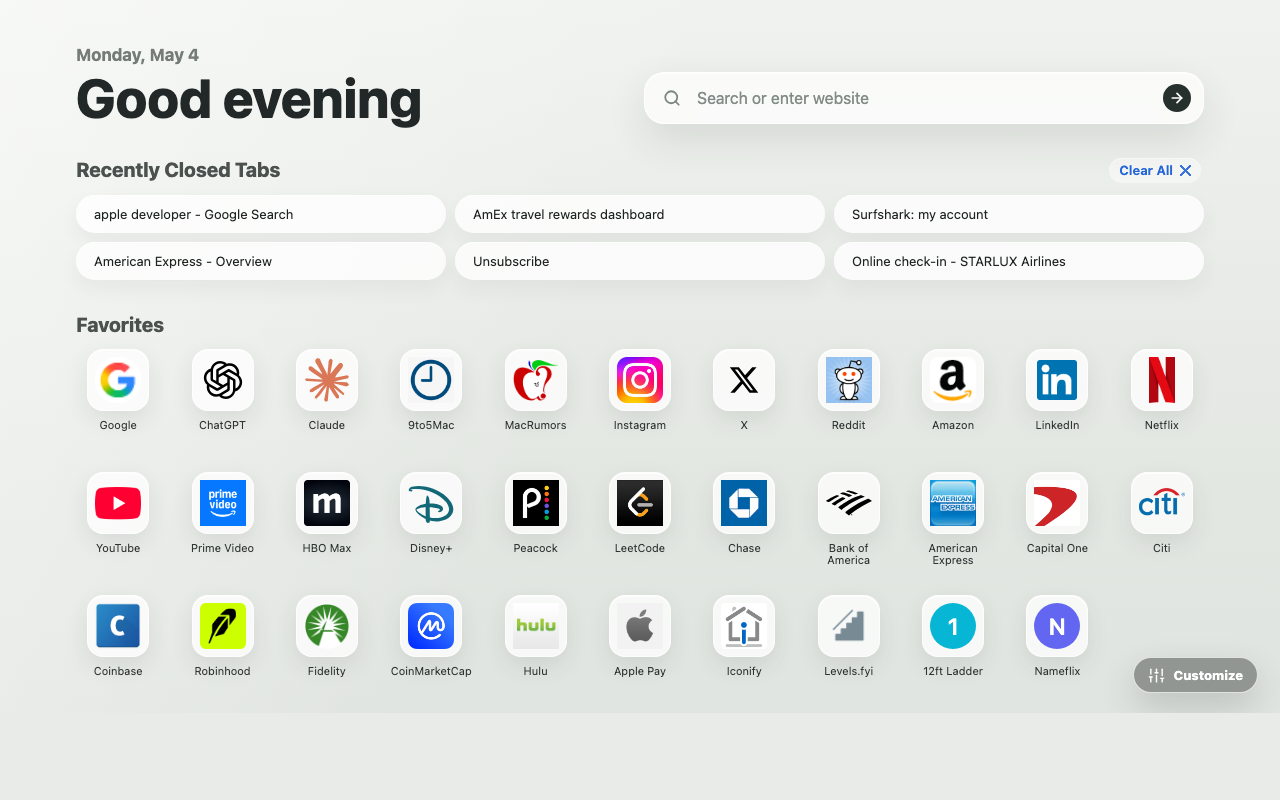
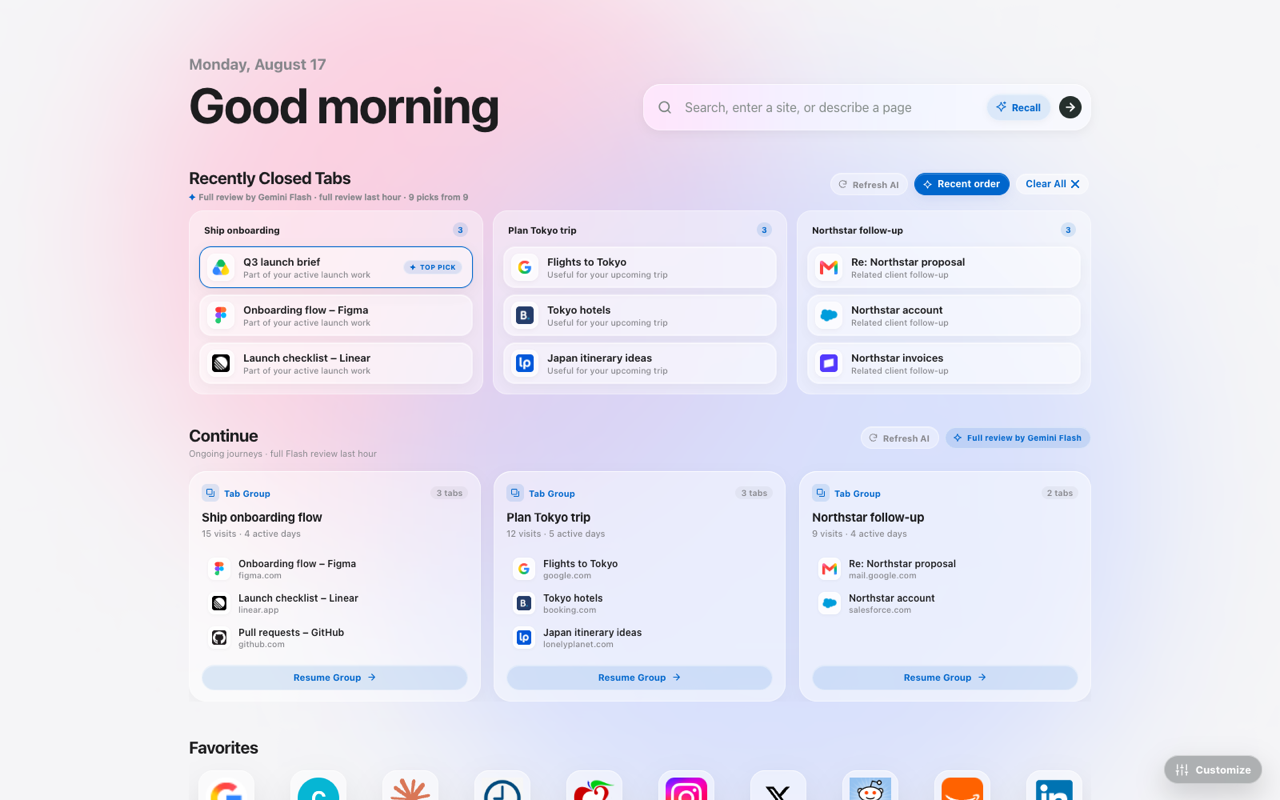
feat: refresh multi-theme store marketing

diff --git a/docs/landing.css b/docs/landing.css
@@ -223,6 +223,103 @@ h1, h2, h3 {
   transform: rotateX(0deg) scale(1);
 }
 
+/* Theme showcase */
+.theme-showcase {
+  width: min(1380px, calc(100% - 44px));
+  margin: 40px auto 0;
+  padding: 90px 0 70px;
+}
+
+.showcase-heading {
+  max-width: 720px;
+  margin: 0 auto 48px;
+  text-align: center;
+}
+
+.eyebrow {
+  margin-bottom: 10px;
+  color: var(--accent-color);
+  font-size: 13px;
+  font-weight: 700;
+  letter-spacing: 0.11em;
+  text-transform: uppercase;
+}
+
+.showcase-heading h2 {
+  margin-bottom: 18px;
+  font-size: clamp(38px, 6vw, 64px);
+  line-height: 1.05;
+}
+
+.showcase-heading > p:last-child {
+  color: var(--text-secondary);
+  font-size: 20px;
+  line-height: 1.45;
+}
+
+.theme-gallery {
+  display: grid;
+  grid-template-columns: repeat(12, minmax(0, 1fr));
+  align-items: start;
+  gap: 24px;
+}
+
+.theme-shot {
+  grid-column: span 6;
+  min-width: 0;
+}
+
+.theme-shot:first-child {
+  grid-column: 2 / span 10;
+}
+
+.theme-shot-frame {
+  overflow: hidden;
+  border: 1px solid var(--card-border);
+  border-radius: 22px;
+  background: var(--card-bg);
+  box-shadow: 0 28px 70px rgba(22, 30, 38, 0.14);
+  transition: transform 300ms cubic-bezier(0.2, 0.8, 0.2, 1), box-shadow 300ms ease;
+}
+
+.theme-shot:hover .theme-shot-frame {
+  transform: translateY(-5px);
+  box-shadow: 0 34px 80px rgba(22, 30, 38, 0.2);
+}
+
+.theme-shot img {
+  display: block;
+  width: 100%;
+  height: auto;
+}
+
+.theme-shot figcaption {
+  display: flex;
+  align-items: center;
+  justify-content: center;
+  gap: 8px;
+  padding: 14px 0 4px;
+  color: var(--text-secondary);
+  font-size: 14px;
+  font-weight: 650;
+}
+
+.theme-dot {
+  width: 9px;
+  height: 9px;
+  border-radius: 50%;
+  background: linear-gradient(135deg, #f3a7c2, #a9bdf7);
+  box-shadow: 0 0 0 4px rgba(115, 134, 201, 0.1);
+}
+
+.theme-shot-emerald .theme-dot {
+  background: linear-gradient(135deg, #71ddb7, #7bc6db);
+}
+
+.theme-shot-twilight .theme-dot {
+  background: linear-gradient(135deg, #9d70e8, #342060);
+}
+
 /* Features */
 .features {
   max-width: 980px;
@@ -321,6 +418,24 @@ h1, h2, h3 {
 }
 
 @media (max-width: 768px) {
+  .theme-showcase {
+    width: min(100% - 28px, 680px);
+    padding: 56px 0 30px;
+  }
+  .showcase-heading {
+    margin-bottom: 30px;
+  }
+  .showcase-heading > p:last-child {
+    font-size: 17px;
+  }
+  .theme-gallery {
+    display: flex;
+    flex-direction: column;
+  }
+  .theme-shot,
+  .theme-shot:first-child {
+    width: 100%;
+  }
   .bento-grid {
     grid-template-columns: 1fr;
   }
@@ -336,5 +451,16 @@ h1, h2, h3 {
     flex-direction: column;
     gap: 16px;
     text-align: center;
+  }
+}
+
+@media (prefers-reduced-motion: reduce) {
+  *,
+  *::before,
+  *::after {
+    scroll-behavior: auto !important;
+    animation-duration: 0.01ms !important;
+    animation-iteration-count: 1 !important;
+    transition-duration: 0.01ms !important;
   }
 }

diff --git a/docs/index.html b/docs/index.html
@@ -36,7 +36,35 @@
       </div>
       
       <div class="hero-image-wrapper">
-        <img src="safarian-screenshot.png" alt="Safarian Extension Screenshot" class="hero-image" loading="lazy">
+        <img src="safarian-screenshot.png" alt="Safarian organizing recently closed tabs and ongoing journeys in the Classic theme" class="hero-image" loading="eager">
+      </div>
+    </section>
+
+    <section class="theme-showcase" aria-labelledby="theme-showcase-title">
+      <div class="showcase-heading">
+        <p class="eyebrow">Seven themes. Light and dark.</p>
+        <h2 id="theme-showcase-title">Calm in every color.</h2>
+        <p>Pick a mood without giving up clarity. Safarian keeps your active work, ongoing journeys, and favorite places beautifully organized.</p>
+      </div>
+      <div class="theme-gallery">
+        <figure class="theme-shot theme-shot-classic">
+          <div class="theme-shot-frame">
+            <img src="safarian-theme-classic-1280x800.png" alt="Safarian Classic theme with AI-organized tabs and Continue journeys" loading="lazy">
+          </div>
+          <figcaption><span class="theme-dot" aria-hidden="true"></span>Classic</figcaption>
+        </figure>
+        <figure class="theme-shot theme-shot-emerald">
+          <div class="theme-shot-frame">
+            <img src="safarian-theme-emerald-1280x800.png" alt="Safarian Emerald theme with AI-organized tabs and Continue journeys" loading="lazy">
+          </div>
+          <figcaption><span class="theme-dot" aria-hidden="true"></span>Emerald</figcaption>
+        </figure>
+        <figure class="theme-shot theme-shot-twilight">
+          <div class="theme-shot-frame">
+            <img src="safarian-theme-twilight-dark-1280x800.png" alt="Safarian Twilight Dark theme with AI-organized tabs and Continue journeys" loading="lazy">
+          </div>
+          <figcaption><span class="theme-dot" aria-hidden="true"></span>Twilight Dark</figcaption>
+        </figure>
       </div>
     </section>
 

diff --git a/README.md b/README.md
@@ -20,6 +20,14 @@ Run:
 
 The script validates the manifest and JavaScript, checks required icon and listing asset sizes, and writes a minimal Chrome Web Store zip to `dist/`.
 
+Refresh the deterministic multi-theme marketing screenshots with:
+
+```sh
+node scripts/capture-marketing-screenshots.mjs
+```
+
+The capture uses simulated browsing data to show Safarian's real Smart Recent Tabs and Continue interfaces without exposing personal browsing history.
+
 ## Privacy Policy Website
 
 The Chrome Web Store privacy policy site lives in `docs/` and is deployed to GitHub Pages by `.github/workflows/deploy-pages.yml` when changes are pushed to `main` or `master`.

diff --git a/STORE_LISTING.md b/STORE_LISTING.md
@@ -60,5 +60,7 @@ Replace Chrome's new tab page with a personal dashboard for bookmarks, session r
 
 - Store icon: `assets/icons/icon-128.png`
 - Small promo tile: `store-assets/safarian-promo-440x280.png`
-- Screenshot: `store-assets/safarian-screenshot-1280x800.png`
+- Classic screenshot: `store-assets/safarian-theme-classic-1280x800.png`
+- Emerald screenshot: `store-assets/safarian-theme-emerald-1280x800.png`
+- Twilight Dark screenshot: `store-assets/safarian-theme-twilight-dark-1280x800.png`
 - Backup screenshot: `store-assets/safarian-screenshot-640x400.png`
